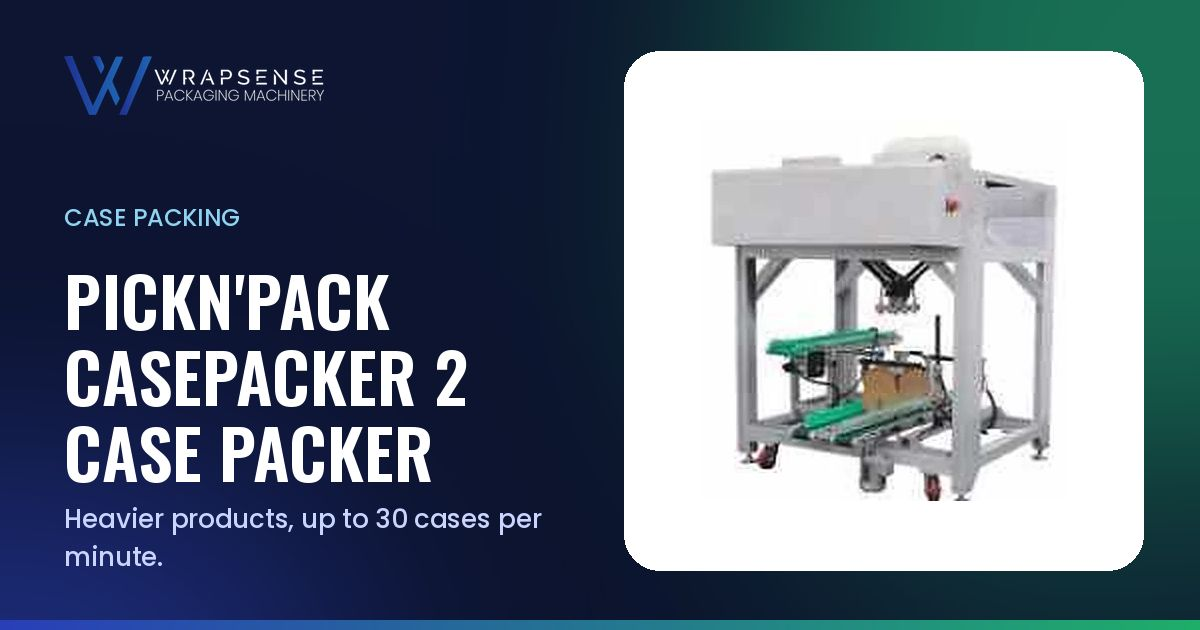
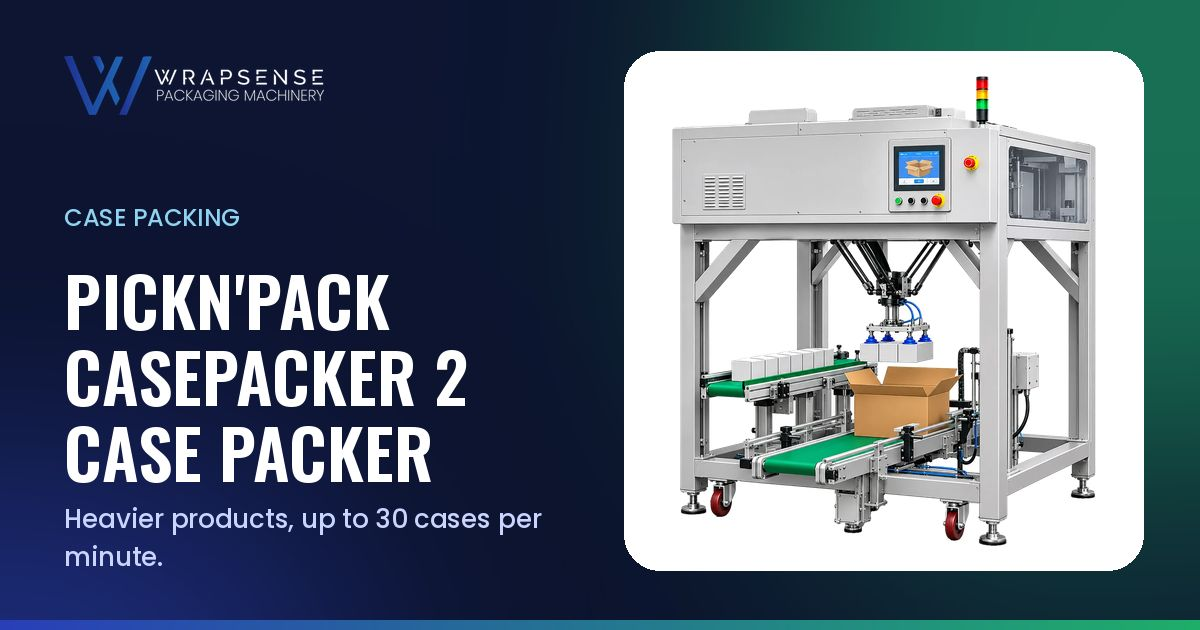
PickN'Pack CasePacker 2: new render; last blurry case-packing photo removed
- New delta-robot case packer render cut out from white (AI-mask-guided; white cartons kept, floor
  shadow removed), WebP with alpha; same filename; OG image regenerated
- Removed the blurry case-packing-action video still from its gallery; now unused, so deleted and
  dropped from the catalog extraction script

Claude-Session: https://claude.ai/code/session_01QFn2KCFGMPNr5c9DCf1rvZ

Changed region(s): [[0.555, 0.1206, 0.925, 0.8746]]

diff --git a/tools/extract-catalog-images.py b/tools/extract-catalog-images.py
@@ -37,8 +37,7 @@ MAP = {
   119:('packages','spout-shaped','cut'), 133:('packages','jar','cut'),
   # photos
   0:('photos','film-line','photo'), 3:('photos','filling-closeup','photo'), 4:('photos','technician','photo'),
-  123:('photos','weigher-snacks','photo'), 125:('photos','weigher-install','photo'), 128:('photos','vffs-install','photo'),
-  206:('photos','case-packing-action','photo'), 251:('photos','weigher-detail','photo'),
+  123:('photos','weigher-snacks','photo'), 125:('photos','weigher-install','photo'), 128:('photos','vffs-install','photo'), 251:('photos','weigher-detail','photo'),
 }
 
 tmp = tempfile.mkdtemp()
